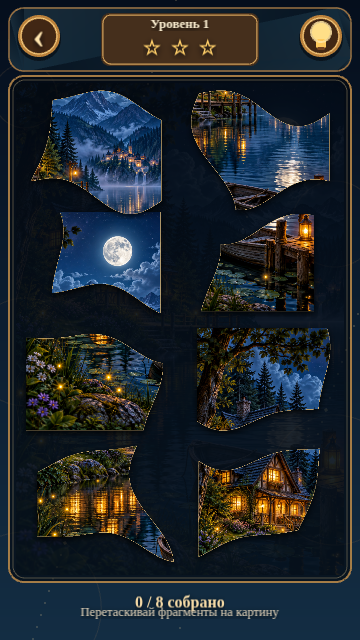
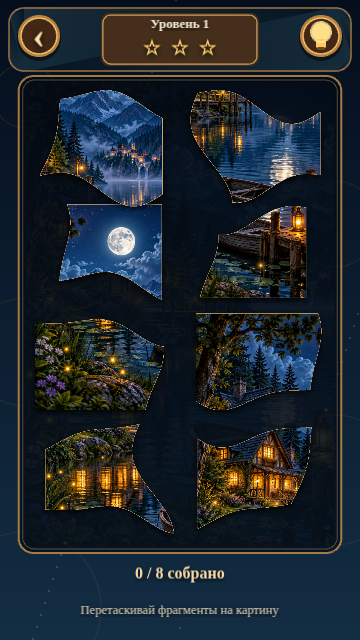
Refine short-phone completion spacing and capture final state

diff --git a/src/main.ts b/src/main.ts
@@ -284,7 +284,7 @@ class PuzzleScene extends Phaser.Scene {
         this.txt(center, p.y + 335, 'Самые тёплые огни', 19, '#e9dac1');
         this.txt(center, p.y + 364, 'видны в тишине…', 19, '#e9dac1');
       }
-      this.txt(b.x + b.width / 2, b.y + b.height + (h < 700 ? 9 : 29), 'Самые тёплые огни видны в тишине…', h < 700 ? 13 : Math.min(16, w * .04), '#ffe8b8', true);
+      this.txt(b.x + b.width / 2, b.y + b.height + 29, 'Самые тёплые огни видны в тишине…', h < 700 ? 13 : Math.min(16, w * .04), '#ffe8b8', true);
       const next = this.nextButton(); this.button(next.centerX, next.centerY, next.width, next.height, 'Следующий уровень');
     } else {
       this.txt(b.x + b.width / 2, b.y + b.height + 27, `${count} / 8 собрано`, 16, '#f4d9a6', true);

diff --git a/src/layout.ts b/src/layout.ts
@@ -12,7 +12,7 @@ export function looseScale(viewportWidth: number, viewportHeight: number): numbe
 export function gameLayout(w: number, h: number): { board: Rect; preview: Rect | null } {
   const desktop = w >= 1000 && w / h > 1.3;
   const top = h < 700 ? 83 : 94;
-  const foot = h < 700 ? 65 : 112;
+  const foot = h < 700 ? 94 : 112;
   const boardWidth = Math.max(190, Math.min(desktop ? 590 : w - 20, (h - top - foot) * 2 / 3));
   const boardHeight = boardWidth * 1.5;
   const y = top + Math.max(0, (h - top - foot - boardHeight) * (desktop ? .5 : .30));
